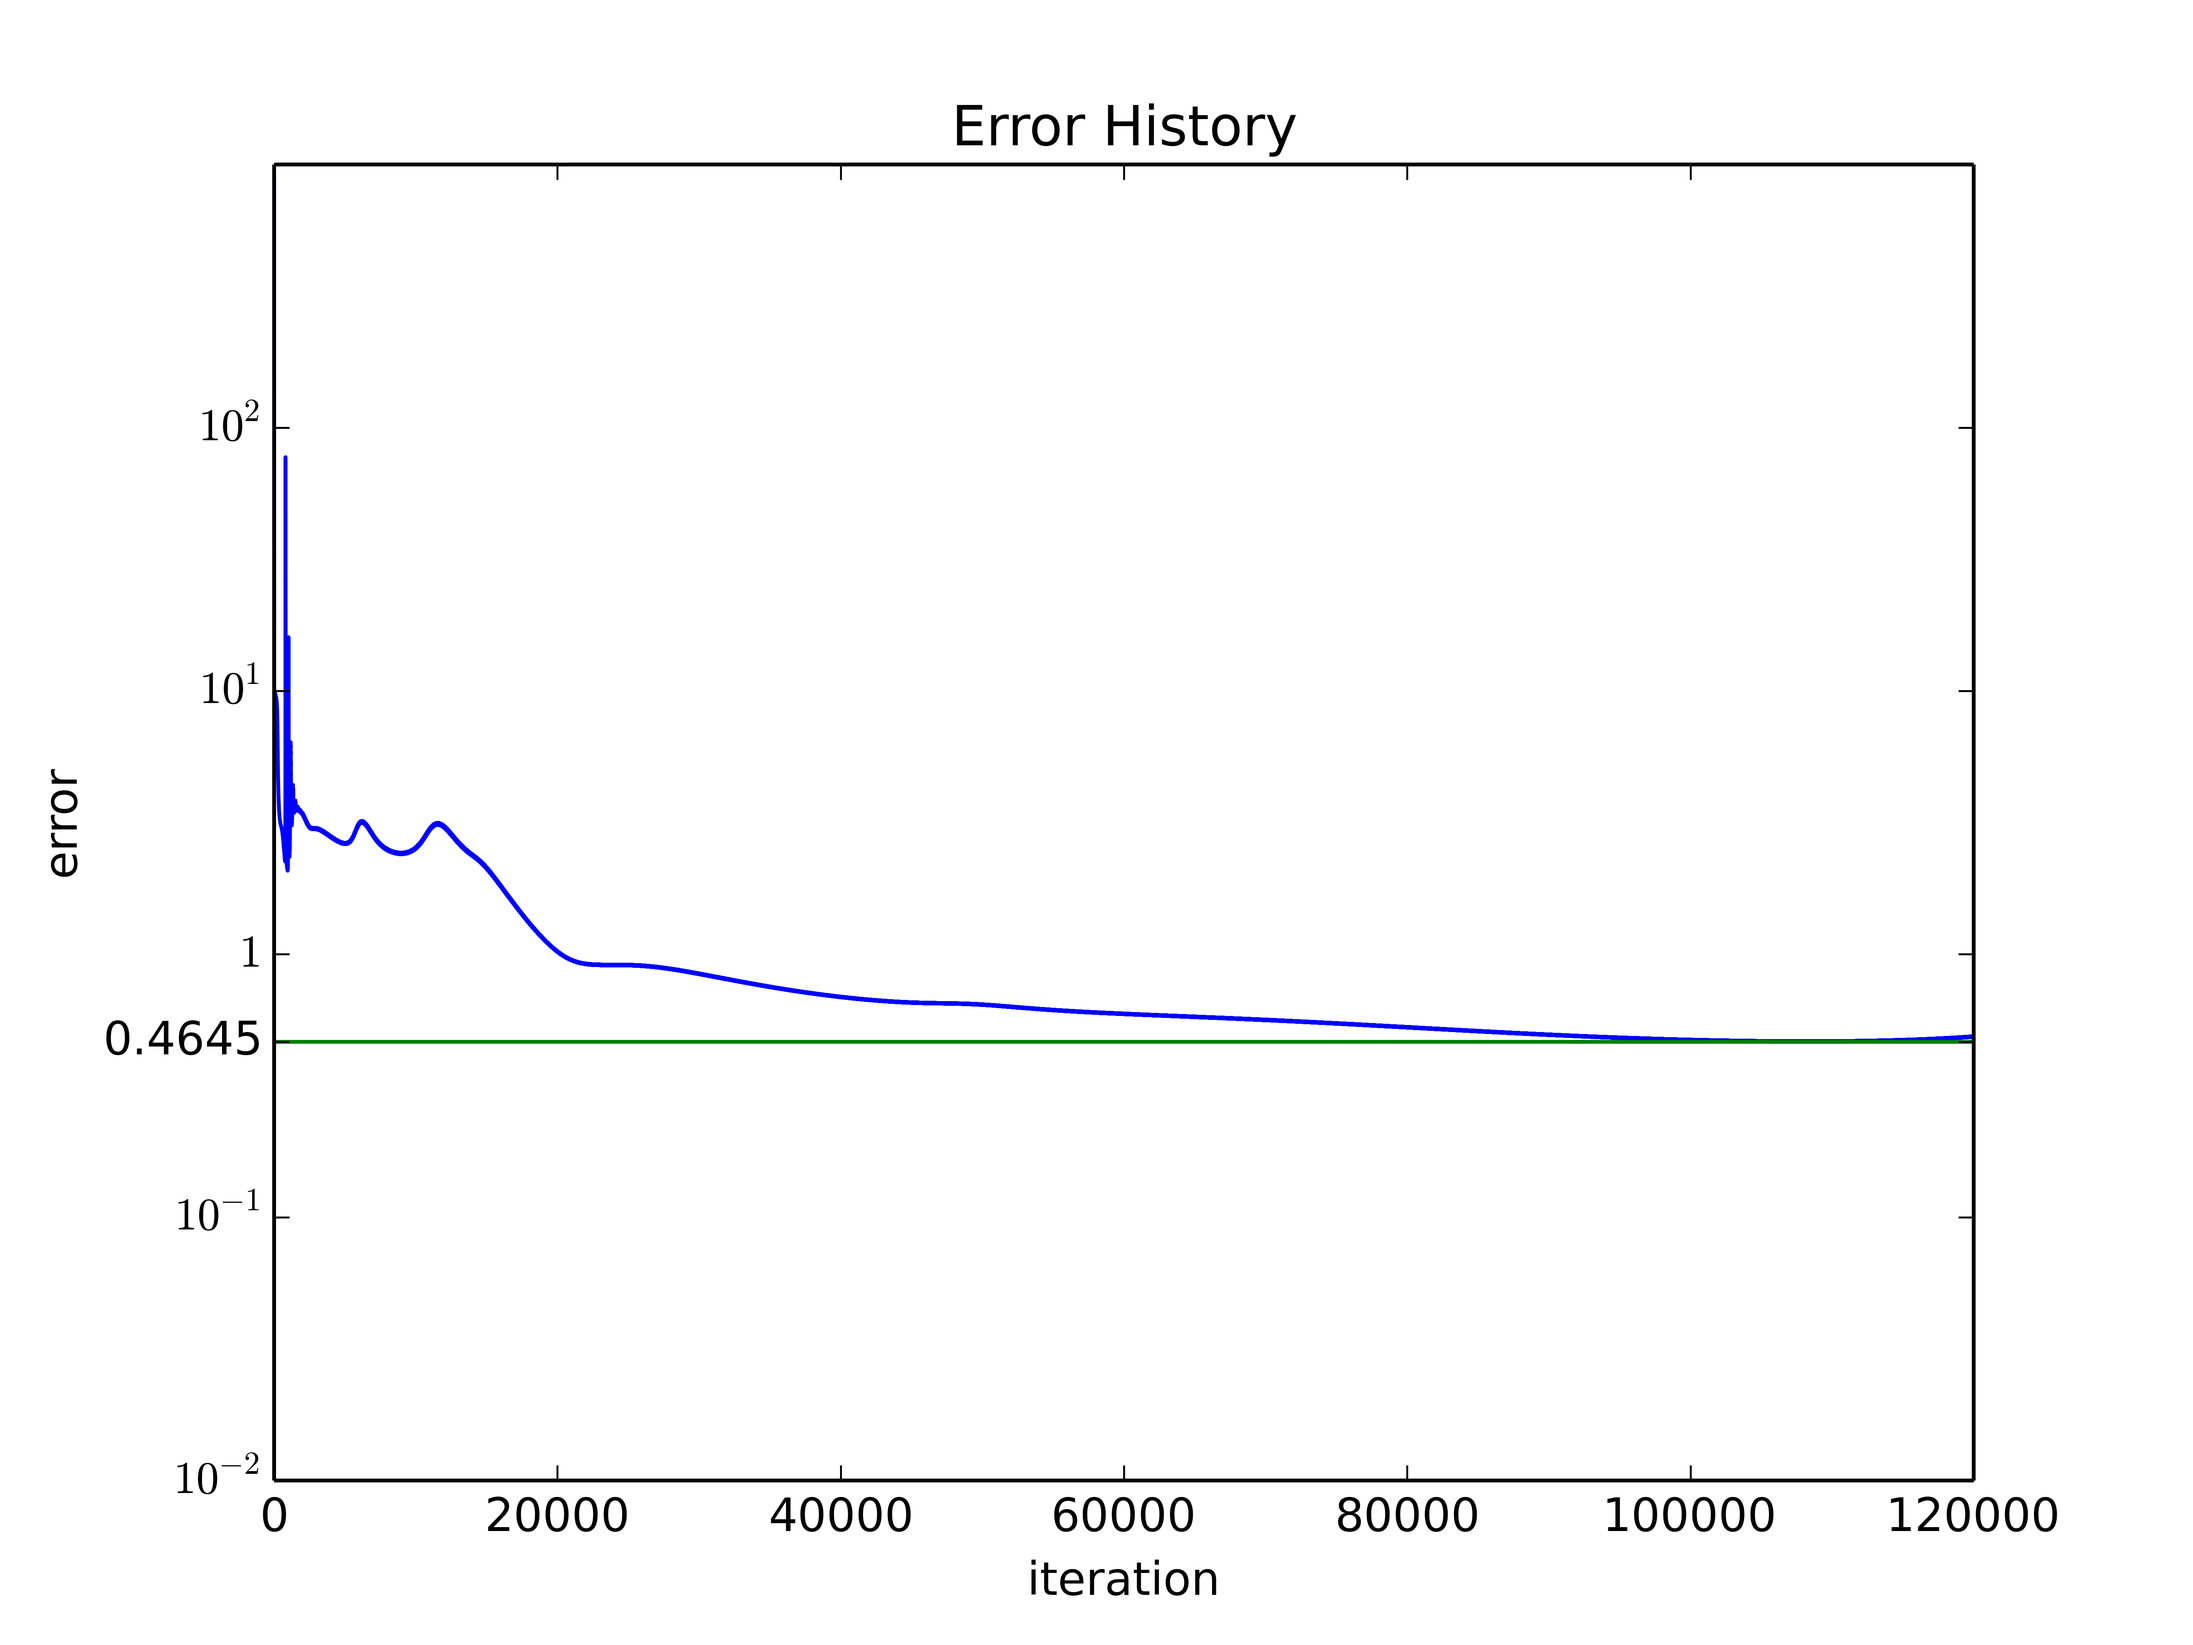
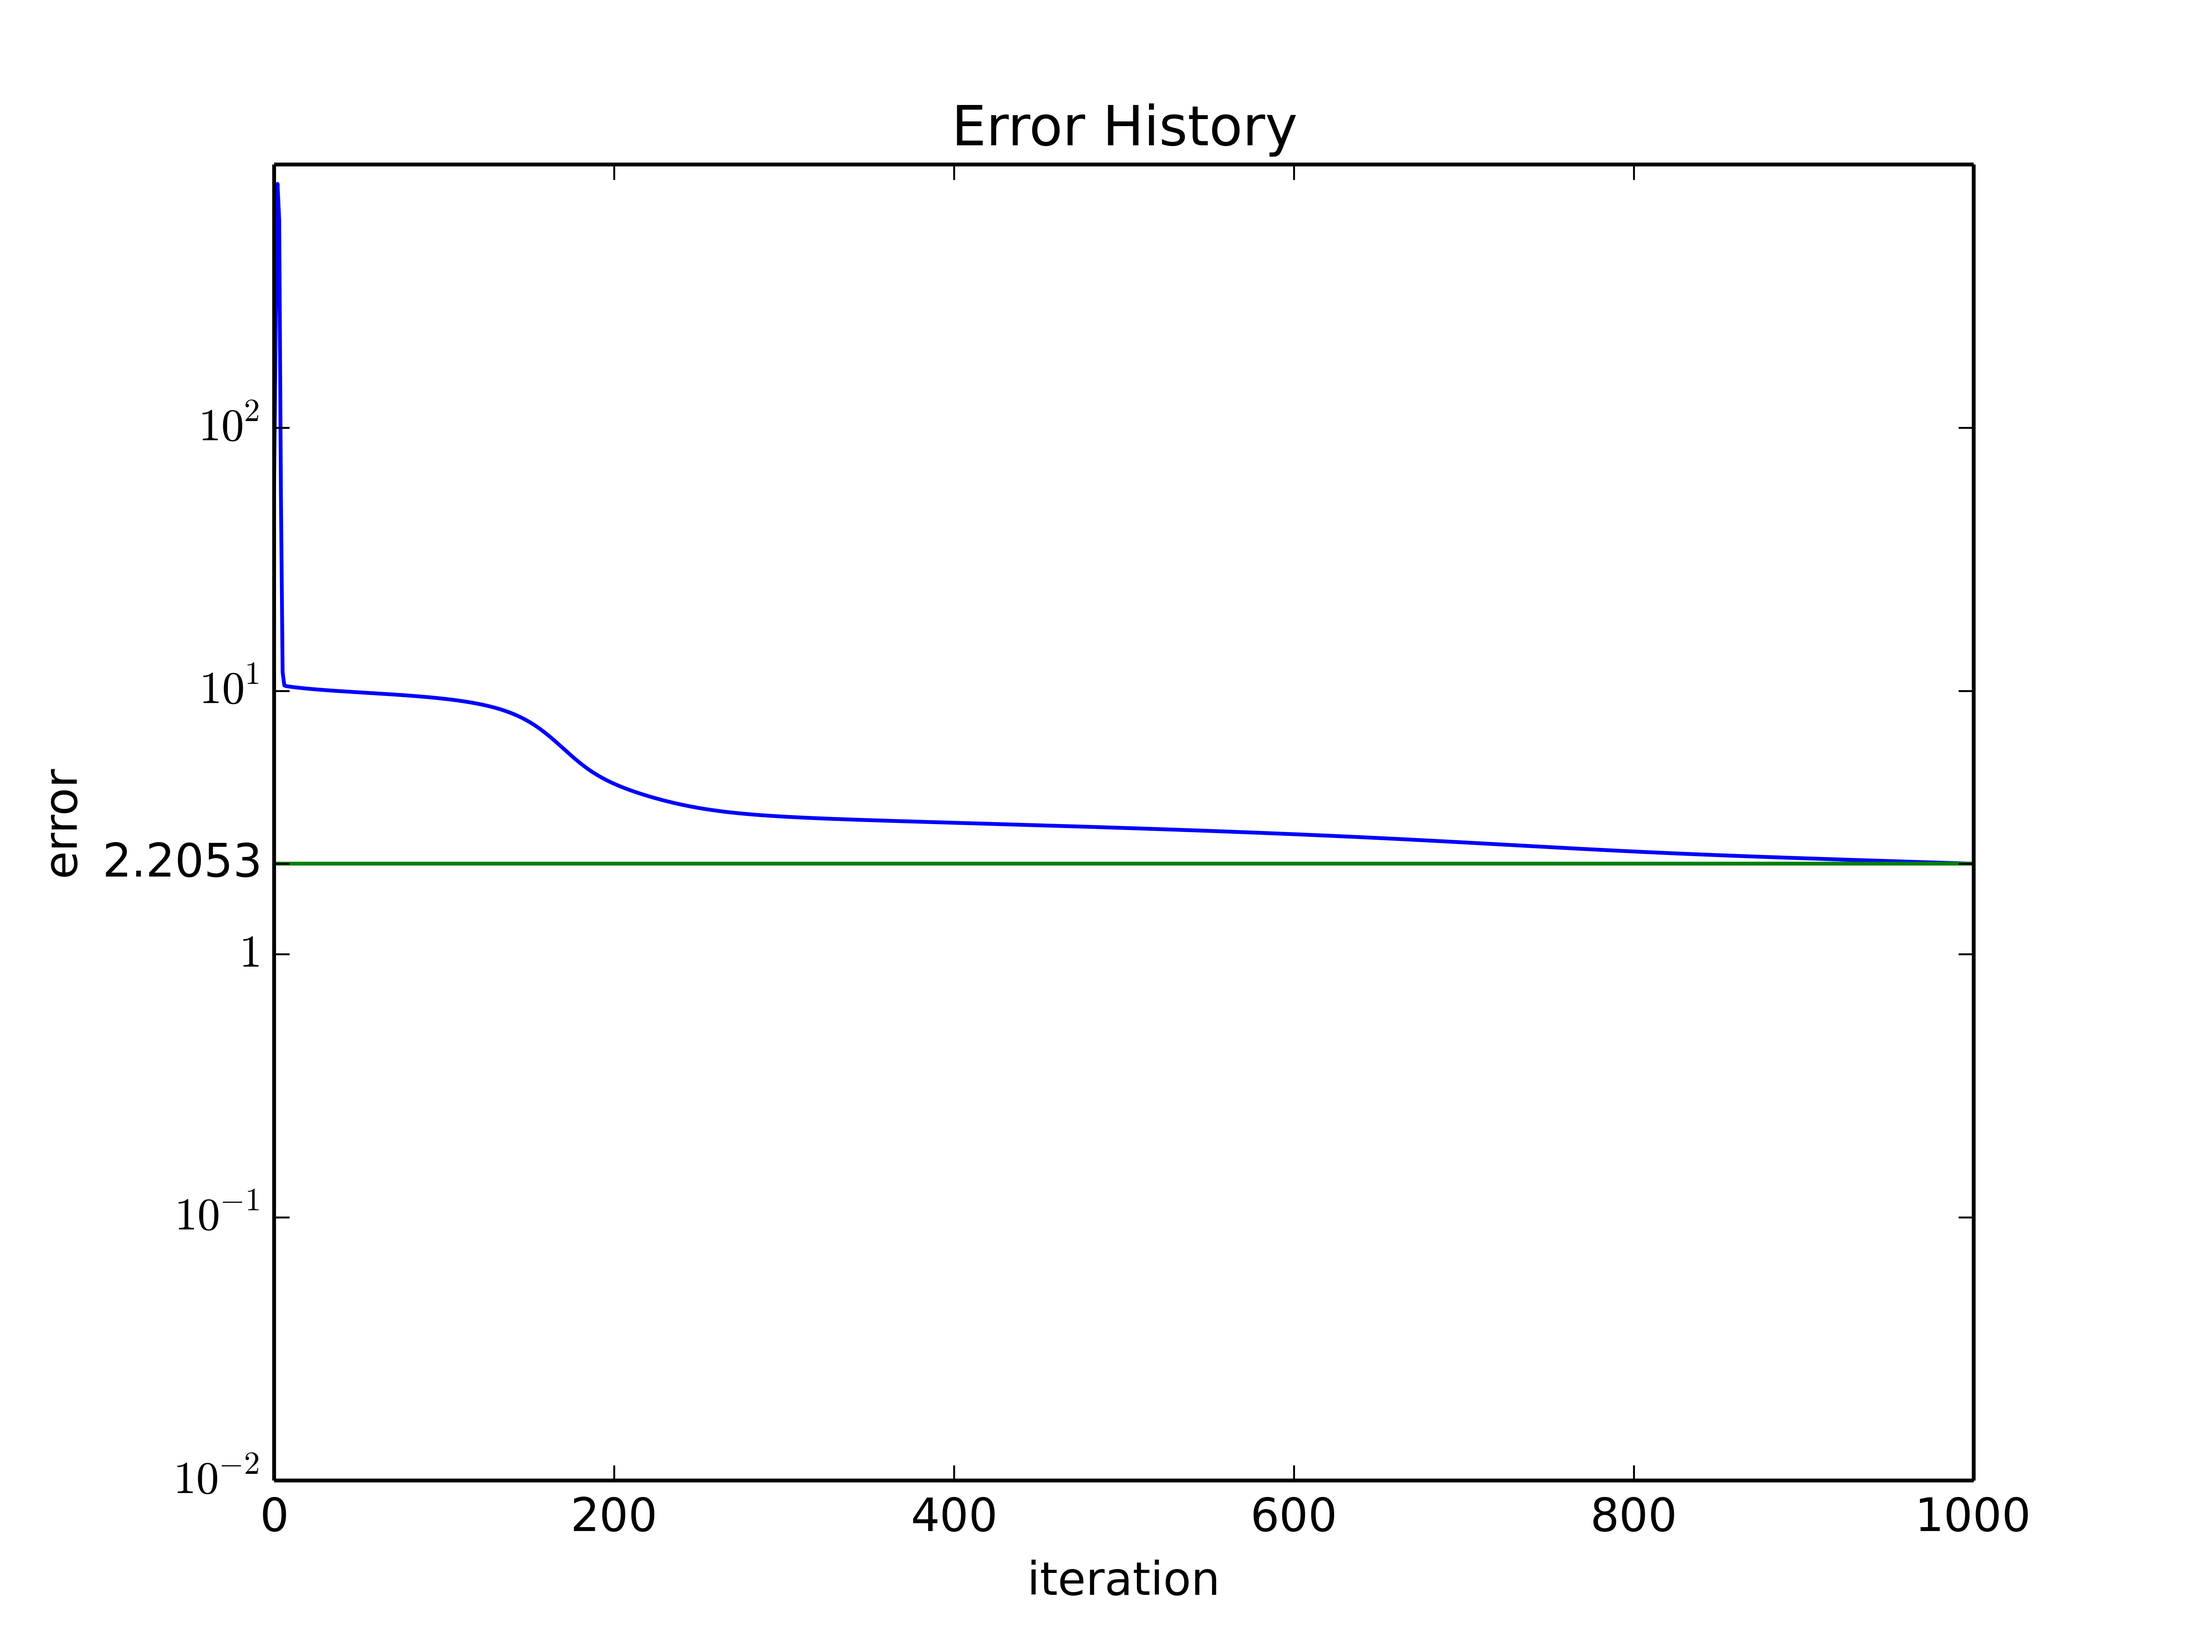
bp神经网络算法实现对订单量的预测

diff --git a/bp/bporder.py b/bp/bporder.py
@@ -1,22 +1,13 @@
 # coding:utf-8
 
+
+# bp神经网络算法对未来订单量、交易额的预测
+
 import numpy as np
 import matplotlib.pyplot as plt
 
 def logsig(x):
     return 1/(1+np.exp(-x))
-
-# #人数(单位：万人)
-# population=[20.55,22.44,25.37,27.13,29.45,30.10,30.96,34.06,36.42,38.09,39.13,39.99,41.93,44.59,47.30,52.89,55.73,56.76,59.17,60.63]
-# #机动车数(单位：万辆)
-# vehicle=[0.6,0.75,0.85,0.9,1.05,1.35,1.45,1.6,1.7,1.85,2.15,2.2,2.25,2.35,2.5,2.6,2.7,2.85,2.95,3.1]
-# #公路面积(单位：万平方公里)
-# roadarea=[0.09,0.11,0.11,0.14,0.20,0.23,0.23,0.32,0.32,0.34,0.36,0.36,0.38,0.49,0.56,0.59,0.59,0.67,0.69,0.79]
-# #公路客运量(单位：万人)
-# passengertraffic=[5126,6217,7730,9145,10460,11387,12353,15750,18304,19836,21024,19490,20433,22598,25107,33442,36836,40548,42927,43462]
-# #公路货运量(单位：万吨)
-# freighttraffic=[1237,1379,1385,1399,1663,1714,1834,4322,8132,8936,11099,11203,10524,11115,13320,16762,18673,20724,20803,21804]
-
 
 # 输入层
 # 是否节假日
@@ -37,14 +28,11 @@ tradesum = [19934.51,17134.9,17538.9,15480.7,12775,14368.22,16588.11,13413.4,132
 ordernum = [481,406,423,362,301,340,394,331,324,341,320,186,233,238,239,255,330,292,321,316,244,297,314,342,327,269,324,270,230,271,295,266]
 
 
-
-
-
 # 输入值
 samplein = np.mat([holiday,weeknum,subsidyrate,onlinedays,foodnum]) #5*32
 sampleinminmax = np.array([samplein.min(axis=1).T.tolist()[0],samplein.max(axis=1).T.tolist()[0]]).transpose()#3*2，对应最大值最小值
 # 输出值
-sampleout = np.mat([tradesum,ordernum])#2*32
+sampleout = np.mat([ordernum,tradesum])#2*32
 sampleoutminmax = np.array([sampleout.min(axis=1).T.tolist()[0],sampleout.max(axis=1).T.tolist()[0]]).transpose()#2*2，对应最大值最小值
 
 #5*32
@@ -59,7 +47,7 @@ sampleoutnorm += noise
 
 
 # 训练次数
-maxepochs = 120000
+maxepochs = 1000
 # 学习速率
 learnrate = 0.035
 # 误差率
@@ -108,8 +96,7 @@ for i in range(maxepochs):
     b1 += learnrate*db1
 
 
-    print 'err',err,'w1=',w1,'w2=',w2,'b1=',b1,'b2=',b2
-    #,'w1='+w1,'w2='+w2,'b1='+b1,'b2='+b2
+    # print 'err',err,'w1=',w1,'w2=',w2,'b1=',b1,'b2=',b2
 
 # 误差曲线图
 errhistory10 = np.log10(errhistory)
@@ -143,8 +130,8 @@ line2, = axes[0].plot(sampleout[0],'r',markeredgecolor='b',marker = u'$\star$',m
 
 axes[0].legend((line1,line2),('simulation output','real output'),loc = 'upper left')
 
-yticks = [0,50,100,150,200,250]
-ytickslabel = [u'$0$',u'$5$',u'$10$',u'$15$',u'$20$',u'$25$']
+yticks = [0,100,200,300,400,500,600]
+ytickslabel = [u'$0$',u'$100$',u'$200$',u'$300$',u'$400$',u'$500$',u'$600$']
 axes[0].set_yticks(yticks)
 axes[0].set_yticklabels(ytickslabel)
 axes[0].set_ylabel('ordernum')

diff --git a/bp/temp.py b/bp/temp.py
@@ -1,0 +1,56 @@
+# coding:utf-8
+
+# 使用keras框架对订单和交易额预测
+
+
+import numpy as np
+import matplotlib.pyplot as plt
+
+# 是否节假日
+holiday = [0,0,0,2,2,0,0,0,0,0,2,1,1,1,1,0,0,0,0,0,2,2,0,0,0,0,0,2,2,0,0,0]
+# 星期数
+weeknum = [3,4,5,6,7,1,2,3,4,5,6,4,5,6,7,1,2,3,4,5,6,7,1,2,3,4,5,6,7,1,2,3]
+# 补贴率
+subsidyrate = [0.0409,0.0318,0.0315,0.0315,0.0256,0.0277,0.0294,0.0285,0.0349,0.0307,0.0322,0.0215,0.0271,0.031,0.028,0.0293,0.0345,0.0318,0.0296,0.0353,0.0286,0.0251,0.0328,0.0322,0.0294,0.0297,0.0306,0.0298,0.0319,0.0333,0.034,0.0387]
+# 上线天数
+onlinedays = [123,124,125,126,127,128,129,130,131,132,133,138,139,140,141,142,143,144,145,146,147,148,149,150,151,152,153,154,155,156,157,158]
+# 菜品数量
+foodnum = [48,48,48,48,48,48,48,48,48,48,48,48,48,48,48,48,48,48,48,48,48,48,48,50,50,50,50,50,50,50,50,50]
+
+# 输出层
+# 交易额
+tradesum = [19934.51,17134.9,17538.9,15480.7,12775,14368.22,16588.11,13413.4,13220.21,14730.39,	13705.6,7758.4,10150.6,10076.7,9818.81,10411.1,13207.3,12060.6,13499.51,12766.7,10115.79,12723,12922.2,13991,13548.19,11188.4,13650.52,11011.6,	9719.4,	10796.2,11976.3,10596.19]
+# 订单数
+ordernum = [481,406,423,362,301,340,394,331,324,341,320,186,233,238,239,255,330,292,321,316,244,297,314,342,327,269,324,270,230,271,295,266]
+
+# 输入值
+samplein = np.mat([holiday,weeknum,subsidyrate,onlinedays,foodnum]) #5*32
+sampleinminmax = np.array([samplein.min(axis=1).T.tolist()[0],samplein.max(axis=1).T.tolist()[0]]).transpose()#3*2，对应最大值最小值
+# 输出值
+sampleout = np.mat([tradesum,ordernum])#2*32
+sampleoutminmax = np.array([sampleout.min(axis=1).T.tolist()[0],sampleout.max(axis=1).T.tolist()[0]]).transpose()#2*2，对应最大值最小值
+
+#5*32
+sampleinnorm = (2*(np.array(samplein.T)-sampleinminmax.transpose()[0])/(sampleinminmax.transpose()[1]-sampleinminmax.transpose()[0])-1).transpose()
+#2*32
+sampleoutnorm = (2*(np.array(sampleout.T).astype(float)-sampleoutminmax.transpose()[0])/(sampleoutminmax.transpose()[1]-sampleoutminmax.transpose()[0])-1).transpose()
+
+from keras.models import Sequential
+from keras.layers import Dense, Activation
+
+model = Sequential()
+model.add(Dense(7, input_dim=5, activation='tanh'))
+model.add(Dense(2, activation='tanh'))
+
+model.compile(optimizer='rmsprop', loss='mse')
+model.fit(sampleinnorm.T, sampleoutnorm.T, epochs=100, batch_size=10)
+
+fig, axes = plt.subplots(2, 1)
+axes[0].plot(range(32), model.predict(sampleinnorm.T)[:,0])
+axes[0].plot(range(32), sampleoutnorm.T[:,0])
+axes[1].plot(range(32), model.predict(sampleinnorm.T)[:,1])
+axes[1].plot(range(32), sampleoutnorm.T[:,1])
+
+
+
+fig.savefig('result.png')
